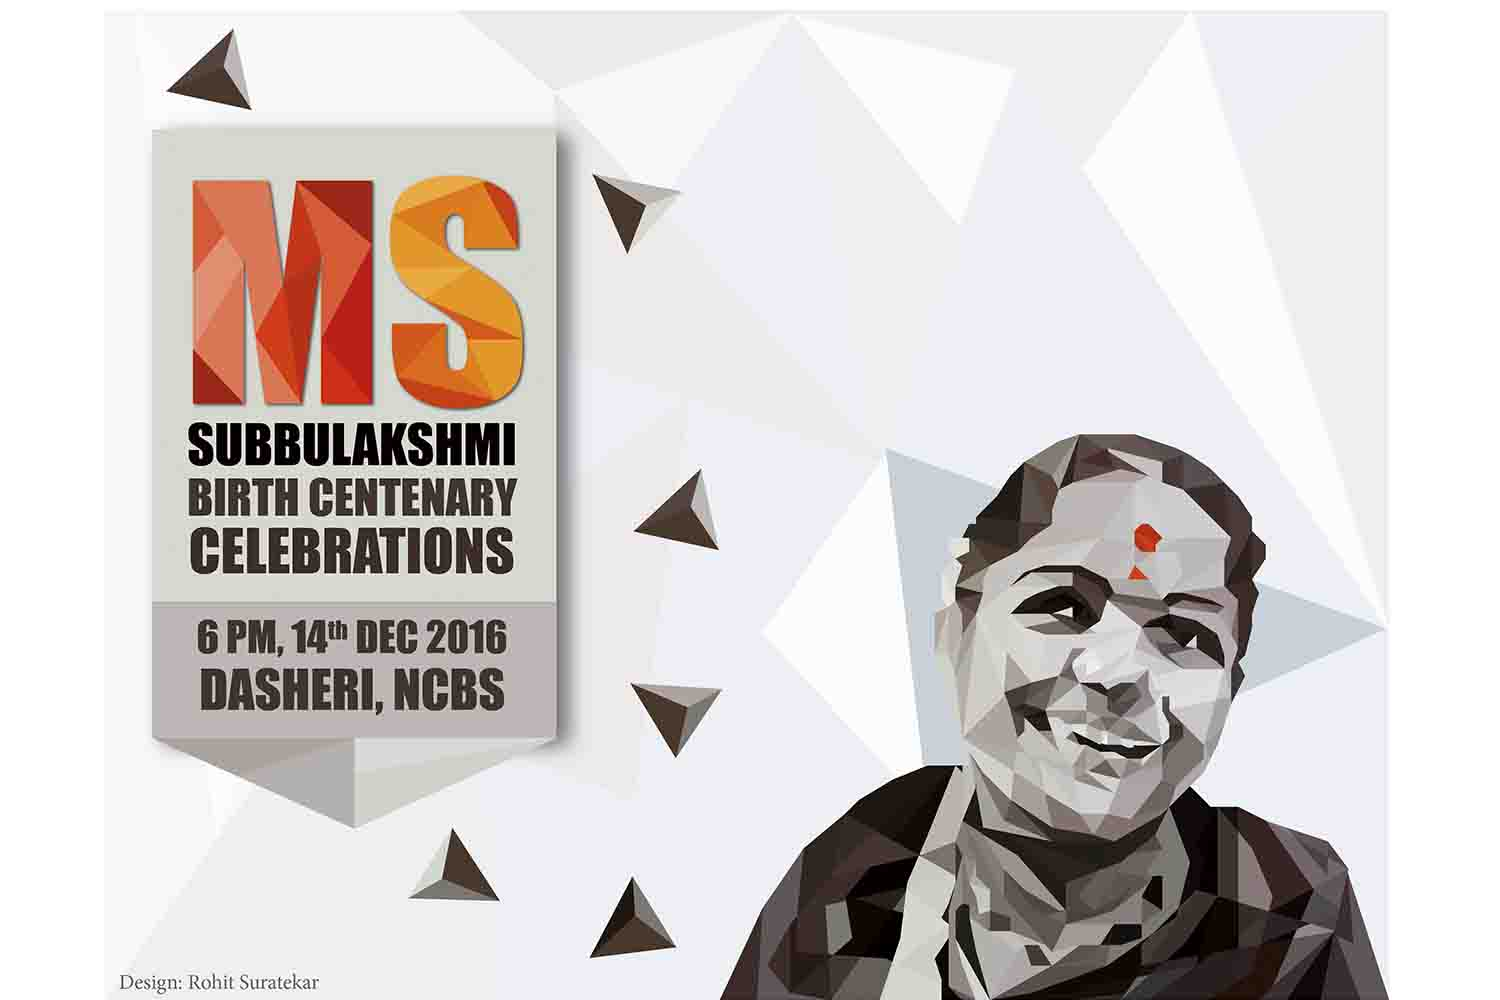
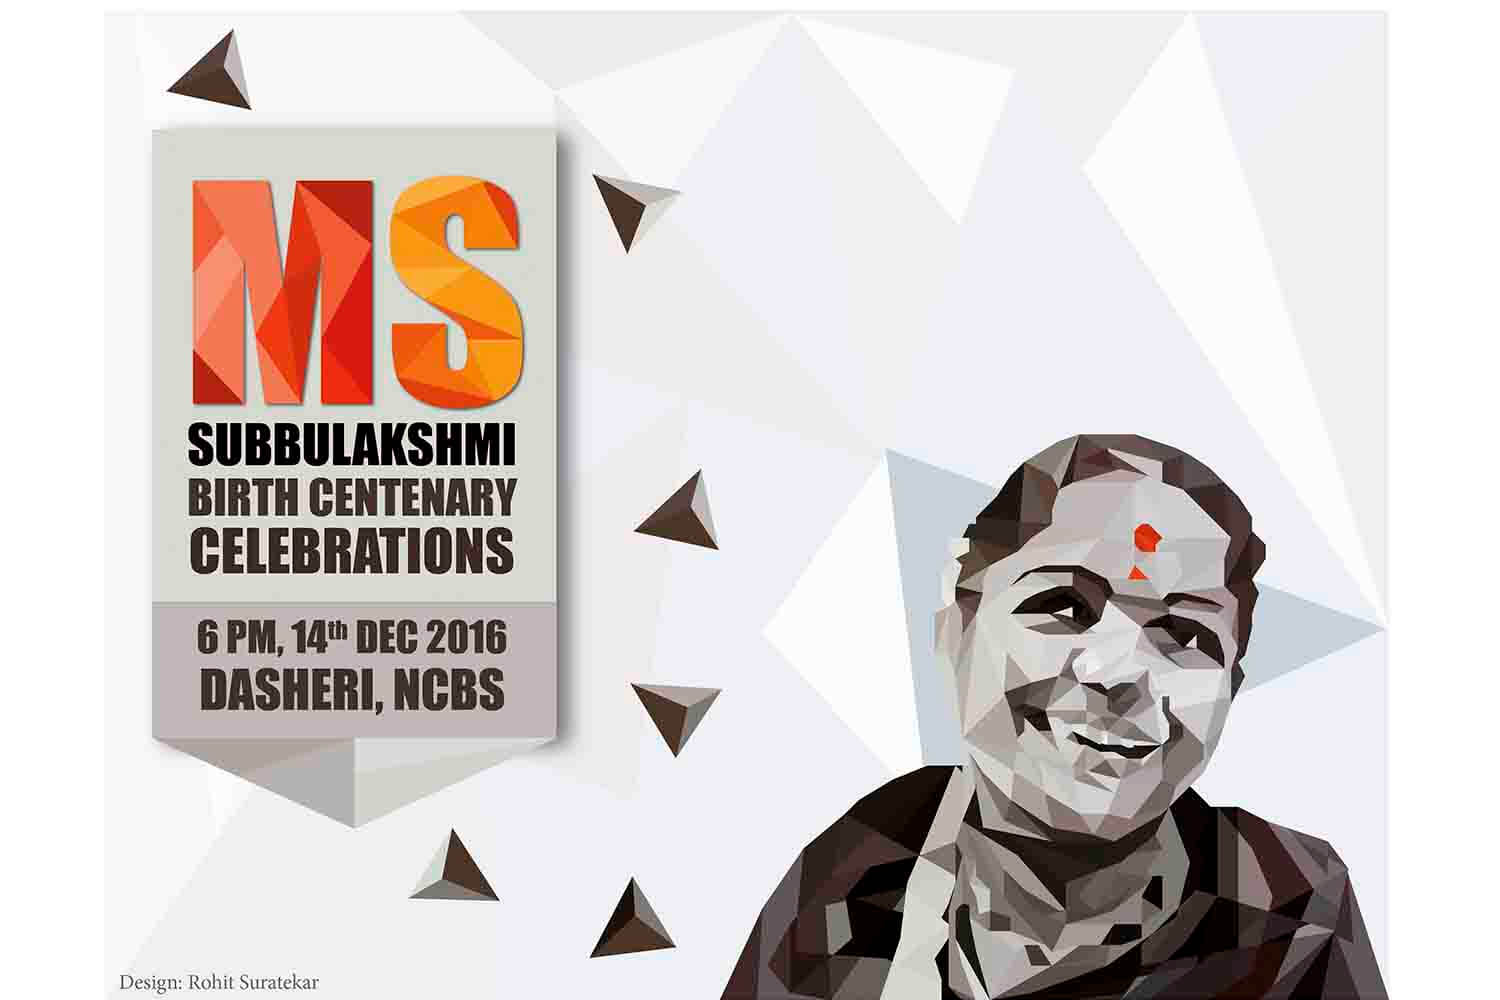
Replaced existing images with compressed images. Added new conference details.

Changed region(s): [[0.1227, 0.186, 0.368, 0.403], [0.736, 0.527, 0.7667, 0.558]]

diff --git a/src/app/researcher/publications/publications.component.html b/src/app/researcher/publications/publications.component.html
@@ -1,49 +1,99 @@
 <div class="row flex-items-xs-center">
-  <div class={{commonClass}}>
-    <h3>Publications</h3>
-    <p>Rohit Suratekar, Padinjat Raghu, Sandeep Krishna. Evidence of sinks and sources in the PLC activated PIP<sub>2</sub>      cycle.
-      <i>bioRxiv </i> 183509; doi: <a href="https://doi.org/10.1101/183509" target="_blank">https://doi.org/10.1101/183509</a></p>
-  </div>
+    <div class={{commonClass}}>
+        <h3>Publications</h3>
+        <p>Rohit Suratekar, Padinjat Raghu, Sandeep Krishna. Evidence of sinks and sources in the PLC activated PIP
+            <sub>2</sub> cycle.
+            <i>bioRxiv </i> 183509; doi:
+            <a href="https://doi.org/10.1101/183509" target="_blank">https://doi.org/10.1101/183509</a>
+        </p>
+    </div>
 
-  <div class={{commonClass}}>
-    <h3>Research Talks</h3>
-    <div class="blank-div"> </div>
-    <ul class="list">
-      <li>
-        <span> Evidence of sinks and sources in the PLC activated PIP<sub>2</sub> cycle </span><br/>
-        <span class="sub-details"> <a href="http://stemphys.nbi.ku.dk/workshops/workshop-on-physical-concepts-in-stem-cell-biology/" target="_blank"> Physical Concepts in Stem Cell Biology </a>, August 6-10, 2017, Tisvildeleje, Denmark.</span>
-      </li>
-      <li>
-        <span>Speeding up PI(4,5)P<sub>2</sub> recovery with top gear </span><br/>
-        <span class="sub-details"><a href="http://ncbs-theobio2.riken.jp/" target="_blank"> NCBS-RIKEN joint meeting for theoretical approaches in biology </a>, April 7-10, 2015, Wako, Japan.</span>
-      </li>
-    </ul>
-  </div>
-  <div class={{commonClass}}>
-    <h3>Posters</h3>
-    <div class="blank-div"> </div>
-    <ul class="list">
-      <li><span>The Hitchhiker's Guide to The Regulation of PI(4,5)P<sub>2</sub> Cycle During Drosophila melanogaster Phototransduction </span><br/>
-        <span class="sub-details">Futures in Biology - NCBS Annual Talks, January 11-14, 2017 Bangalore, India.</span></li>
-      <li><span>Regulation of levels of PI(4,5)P<sub>2</sub> on the plasma membrane</span><br/>
-        <span class="sub-details">Biology across scale - NCBS Annual Talks, January 5-8, 2015 Bangalore, India.</span></li>
-      <li> <span>PI(4,5)P<sub>2</sub> dynamics during Drosophila melagogaster phototransduction</span><br/>
-        <span class="sub-details">Aspects of gene regulation, December 16 2014 Chennai, India.</span></li>
-      <li><span>PI(4,5)P<sub>2</sub> dynamics during Drosophila melagogaster phototransduction</span><br/>
-        <span class="sub-details">NCBS Annual Talks, January 15-17, 2014 Bangalore, India.</span></li>
+    <div class={{commonClass}}>
+        <h3>Research Talks</h3>
+        <div class="blank-div"> </div>
+        <ul class="list">
+            <li>
+                <span> Evidence of sinks and sources in the PLC activated PIP
+                    <sub>2</sub> cycle </span>
+                <br/>
+                <span class="sub-details">
+                    <a href="https://www.imsc.res.in/~rsidd/aogcr2018/" target="_blank">
+                      Aspects of Gene and Cellular Regulation </a>, January 12-13, 2018, Chennai, India.</span>
+            </li>
+            <li>
+                <span> Evidence of sinks and sources in the PLC activated PIP
+                    <sub>2</sub> cycle </span>
+                <br/>
+                <span class="sub-details">
+                    <a href="http://stemphys.nbi.ku.dk/workshops/workshop-on-physical-concepts-in-stem-cell-biology/" target="_blank">
+                    Physical Concepts in Stem Cell Biology </a>, August 6-10, 2017, Tisvildeleje, Denmark.</span>
+            </li>
+            <li>
+                <span>Speeding up PI(4,5)P
+                    <sub>2</sub> recovery with top gear </span>
+                <br/>
+                <span class="sub-details">
+                    <a href="http://ncbs-theobio2.riken.jp/" target="_blank"> NCBS-RIKEN joint meeting for theoretical approaches in biology </a>, April 7-10, 2015, Wako, Japan.</span>
+            </li>
+        </ul>
+    </div>
+    <div class={{commonClass}}>
+        <h3>Posters</h3>
+        <div class="blank-div"> </div>
+        <ul class="list">
+            <li>
+                <span>Evidence of sinks and sources in the PLC activated PIP
+                    <sub>2</sub> cycle</span>
+                <br/>
+                <span class="sub-details">Celebrating diversity in Biology - NCBS Annual Talks, January 3-5, 2018 Bangalore, India.</span>
+            </li>
+            <li>
+                <span>The Hitchhiker's Guide to The Regulation of PI(4,5)P
+                    <sub>2</sub> Cycle During Drosophila melanogaster Phototransduction </span>
+                <br/>
+                <span class="sub-details">Futures in Biology - NCBS Annual Talks, January 11-14, 2017 Bangalore, India.</span>
+            </li>
+            <li>
+                <span>Regulation of levels of PI(4,5)P
+                    <sub>2</sub> on the plasma membrane</span>
+                <br/>
+                <span class="sub-details">Biology across scale - NCBS Annual Talks, January 5-8, 2015 Bangalore, India.</span>
+            </li>
+            <li>
+                <span>PI(4,5)P
+                    <sub>2</sub> dynamics during Drosophila melagogaster phototransduction</span>
+                <br/>
+                <span class="sub-details">Aspects of gene regulation, December 16 2014 Chennai, India.</span>
+            </li>
+            <li>
+                <span>PI(4,5)P
+                    <sub>2</sub> dynamics during Drosophila melagogaster phototransduction</span>
+                <br/>
+                <span class="sub-details">NCBS Annual Talks, January 15-17, 2014 Bangalore, India.</span>
+            </li>
 
-    </ul>
+        </ul>
+        <div class="blank-div"> </div>
+    </div>
+    <div class={{commonClass}}>
+        <h3>Other conferences</h3>
+        <div class="blank-div"> </div>
+        <ul class="list">
+            <li>Bangalore Complexity meeting, Bangalore, India (4 - 6 Feb 2017)</li>
+            <li>Inositide signalling in health and disease, Coorge, India (28 Nov – 2 Dec 2012)</li>
+        </ul>
+    </div>
+
+    <div class={{commonClass}}>
+        <h3>Workshop Organization</h3>
+        <div class="blank-div"> </div>
+        <ul class="list">
+            <li>
+                <a href="https://ncbs-students.github.io/Workshop2017/" target="_blank"> Informal Programming Workshop </a>, NCBS, Bangalore, India </li>
+        </ul>
+    </div>
+
     <div class="blank-div"> </div>
-  </div>
-  <div class={{commonClass}}>
-    <h3>Other conferences</h3>
     <div class="blank-div"> </div>
-    <ul class="list">
-      <li>Bangalore Complexity meeting, Bangalore, India (4 - 6 Feb 2017)</li>
-      <li>Inositide signalling in health and disease, Coorge, India (28 Nov – 2 Dec 2012)</li>
-    </ul>
-  </div>
-  <div class="blank-div"> </div>
-  <div class="blank-div"> </div>
 
 </div>

diff --git a/src/app/contact/contact.component.html b/src/app/contact/contact.component.html
@@ -15,7 +15,7 @@
                 </div>
                 <div class="card-block">
                     <ul class="list">
-                        <li><a href="http://facebook.com/rohitsuratekar" target="_blank">Facebook</a></li>
+                        <li><a href="http://facebook.com/rohitsuratekar" target="_blank">Facebook</a> (temporary deactivated)</li>
                         <li><a href="https://twitter.com/rohitsuratekar" target="_blank">Twitter</a></li>
                         <li><a href="https://plus.google.com/u/0/+RohitSuratekar" target="_blank">Google Plus</a></li>
                     </ul>
@@ -71,7 +71,7 @@
                 </div>
                 <div class="card-block">
                     <ul class="list">
-                        <li><a href="https://rohitsuratekar.wordpress.com/" target="_blank">Personal Blog</a></li>
+                        <li><a href="https://rohitsuratekar.wordpress.com/" target="_blank">Old Personal Blog</a></li>
                         <li><a href="https://www.behance.net/rohitsuratekar" target="_blank">Behance</a></li>
                         <li><a href="https://www.youtube.com/user/superrcs" target="_blank">YouTube</a></li>
                         <li><a href="https://theunknowndna.wordpress.com/" target="_blank">Science Blog</a></li>

diff --git a/src/app/developer/developer.component.ts b/src/app/developer/developer.component.ts
@@ -189,6 +189,25 @@ const projectDetails = [
     'link': 'http://rohitsuratekar.co.in/'
   },
   {
+    'title': "Personal Blog",
+    'platform': 'Web',
+    'language': 'Jekyll',
+    'image': 'jekyllthemes.png',
+    'details': 'Even after searching for a long time some very good platform for blogging  '
+    + ' I did not get any good option. Hence finally I created my own blogging template with the help of amazing Jekyll.',
+    'linkText': 'Check Live',
+    'link': 'https://rohitsuratekar.github.io/'
+  },
+  {
+    'title': "Minimal Quiz",
+    'platform': 'Android',
+    'language': 'Java',
+    'image': 'Android_Robot_100.png',
+    'details': 'Android trivia app which retrieves quiz question from open database and provides you with small quiz. ',
+    'linkText': 'Check on PlayStore',
+    'link': 'https://play.google.com/store/apps/details?id=com.secretbiology.minimalquiz'
+  },
+  {
     'title': "SRTMaker",
     'platform': 'Windows, Unix, iOS',
     'language': 'Python 3',

diff --git a/src/index.html b/src/index.html
@@ -3,6 +3,9 @@
 
 <head>
     <meta charset="utf-8">
+    <meta name="description" content="Presently I am striving towards my dreams and pursing a PhD in Computational Biology 
+    at the National Centre for Biological Sciences (NCBS), Bengaluru ."/>
+    <meta name="keywords" content="Research, Science, PhD, Biology">
     <title>Rohit Suratekar</title>
     <base href="/">
     <meta name="viewport" content="width=device-width, initial-scale=1">
@@ -43,7 +46,7 @@
         <div id="myProgress">
             <div id="myBar"></div>
         </div>
-        <div>&emsp; &emsp;<b>Loading...</b><br>&emsp; &emsp; <i>This Website will only work if you have Javascript enable</i></div>
+        <div>&emsp; &emsp;<b>Loading...</b><br>&emsp; &emsp;This Website will only work if you have Javascript enable</div>
         <script>
             var elem = document.getElementById("myBar");
             var width = 1;

diff --git a/src/app/artist/designing/designing.component.ts b/src/app/artist/designing/designing.component.ts
@@ -88,6 +88,14 @@ class DesignCard {
 
 const designs = [
   {
+    't': 'Research Poster',
+    'i': 'poster_small.jpg',
+    'd': 'My PhD research explained in the form of comic strip .',
+    'k': ['Poster Design', 'Illustration'],
+    'l': 'Check It Out',
+    'h': 'poster.jpg'
+  },
+  {
     't': 'Single cell to being us ',
     'i': 'develop.jpg',
     'd': 'Human embryo development explained with clay stop motion.',
@@ -102,6 +110,14 @@ const designs = [
     'k': ['Animation'],
     'l': 'Check on Youtube',
     'h': 'https://www.youtube.com/watch?v=B9-SjKAaHdg'
+  },
+  {
+    't': 'IISc building',
+    'i': 'iisc_3d.jpg',
+    'd': 'Trying out newly learned 3D modelling technique with the help of Blender.',
+    'k': ['3D Modelling'],
+    'l': 'Check It Out',
+    'h': 'iisc_3d.jpg'
   },
   {
     't': 'Fly and the Machine',

diff --git a/src/app/app.component.html b/src/app/app.component.html
@@ -12,7 +12,7 @@
             <a class="nav-link" href="#" [routerLink]="['/researcher']" routerLinkActive="active"><span class="nav-text">Researcher</span></a>
             <a class="nav-link" href="#" [routerLink]="['/developer']" routerLinkActive="active"><span class="nav-text">Developer</span></a>
             <a class="nav-link" href="#" [routerLink]="['/artist']" routerLinkActive="active"><span class="nav-text">Artist</span></a>
-            <a class="nav-link" href="#" [routerLink]="['/blog']" routerLinkActive="active"><span class="nav-text">Blog</span></a>
+            <a class="nav-link" href="https://rohitsuratekar.github.io/" target="_blank"><span class="nav-text">Blog</span></a>
         </div>
         <div class="header-actions">
             <a href="#" [routerLink]="['/contact']" class="nav-link nav-icon">

diff --git a/src/app/credits/credits.component.html b/src/app/credits/credits.component.html
@@ -45,6 +45,7 @@
                 <li>Java (<a href="http://www.oracle.com/us/technologies/java/java-licensing-logo-guidelines-1908204.pdf" target="_blank">Restricted License</a>)</li>
                 <li> <a href="https://angular.io/presskit" target="_blank"> AngularJS </a> ( <a href="https://creativecommons.org/licenses/by/4.0/" target="_blank">CC BY 4.0</a>)</li>
                 <li> <a href="https://commons.wikimedia.org/wiki/File:LaTeX_logo.svg" target="_blank">Latex</a> (Public Domain)</li>
+                <li><a href="https://jekyllrb.com/" target="_blank">Jekyll</a> ( <a href="https://github.com/jekyll/brand" target="_blank">CC-4</a>) </li>
             </ul>
         </ul>
     </div>

diff --git a/src/app/redirect/redirect.component.ts b/src/app/redirect/redirect.component.ts
@@ -10,7 +10,7 @@ export class RedirectComponent implements OnInit {
   constructor() { }
 
   ngOnInit() {
-    window.location.href = "https://rohitsuratekar.wordpress.com/";
+    window.location.href = "https://rohitsuratekar.github.io/";
   }
 
 }

diff --git a/src/app/redirect/redirect.component.html b/src/app/redirect/redirect.component.html
@@ -1,3 +1,3 @@
 <p>
-  Redirecting to <a href="https://rohitsuratekar.wordpress.com/">https://rohitsuratekar.wordpress.com/</a>
+  Redirecting to <a href="https://rohitsuratekar.github.io/">https://rohitsuratekar.github.io/</a>
 </p>

diff --git a/README.md b/README.md
@@ -1,3 +1,5 @@
 # Website
 
 Personal website building with AngularJS 2
+
+Build with CLI : ng build --prod --aot false
